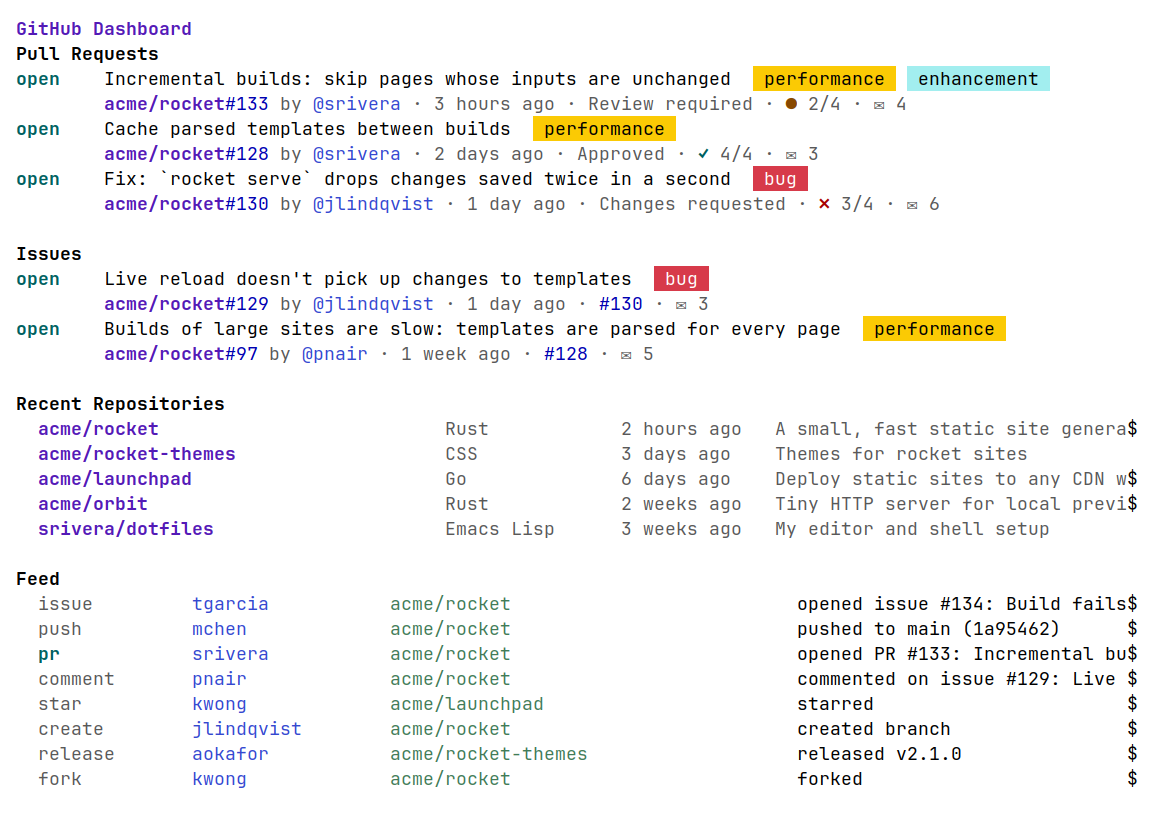
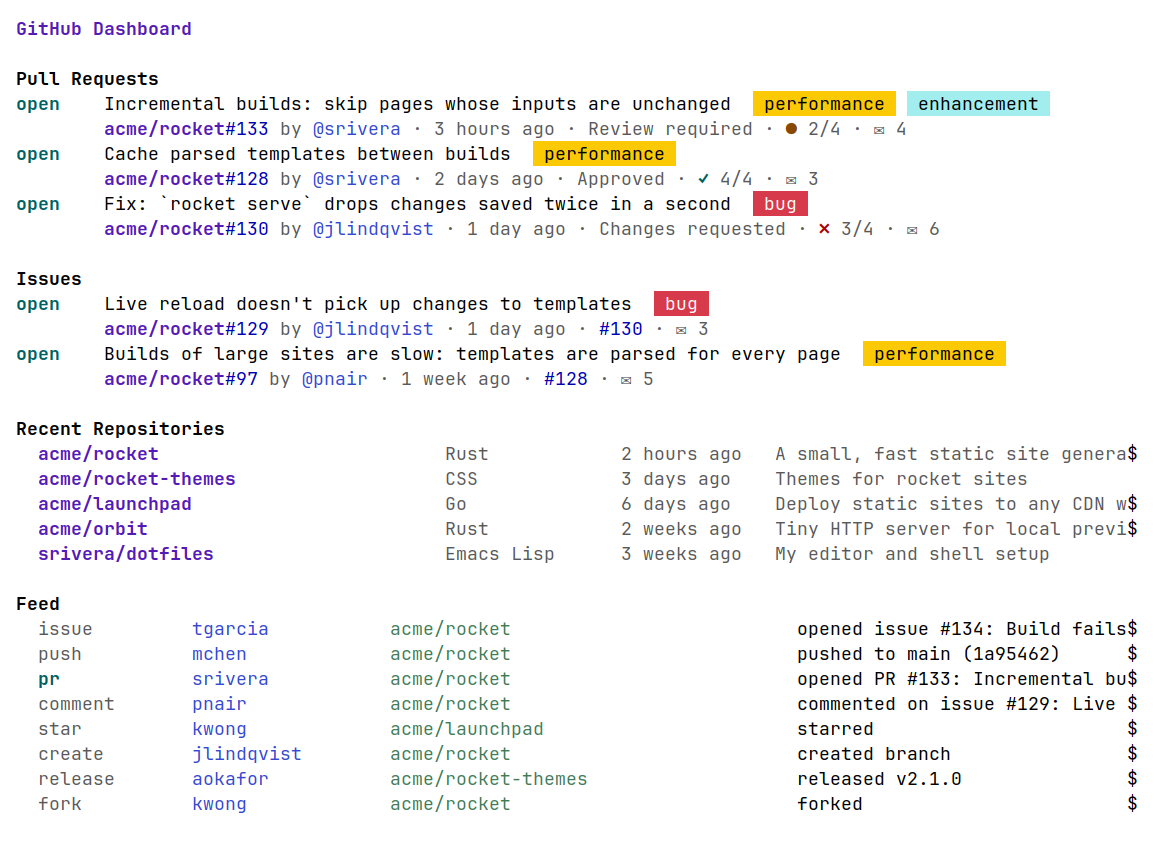
Leave a blank line under the commit list's and dashboard's top line
Every other page sets its header apart from the content this way.  The
commit list's top line loses its underline, as the tree's has none.

diff --git a/CHANGELOG.md b/CHANGELOG.md
@@ -4,6 +4,7 @@ All notable changes to this project will be documented in this file.
 The format is based on [Keep a Changelog](https://keepachangelog.com/en/1.0.0/).
 
 ## [Unreleased]
+* The commit list and dashboard leave a blank line under their top line, as other pages
 * Large markdown headings wrap within the page's width instead of running past it
 * Files at the repository root, like a Dockerfile or .gitignore, are highlighted as in a directory
 * The tree, file and commit-list pages set the branch picker apart from the repo name, as the repo page

diff --git a/docs/user-interface-conventions.md b/docs/user-interface-conventions.md
@@ -916,7 +916,8 @@ A new page starts the same way, using `octocat-vui-repo-heading`.
 
 On the repository page, the tree browser and the file viewer a blank
 line sets the last commit's line apart from the top line, so it reads
-as content, not as part of the page's name.
+as content, not as part of the page's name.  Every page leaves a blank
+line under its top line and the details below it.
 
 ### The owner links, the repo name does not
 
